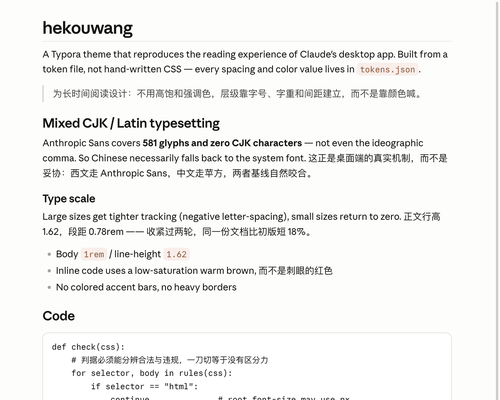
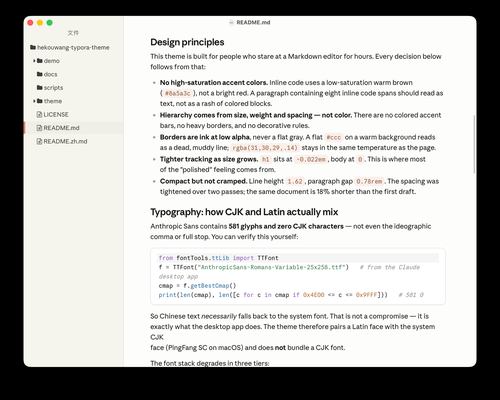
docs: use real Typora screenshots
Replace headless-rendered previews with actual Typora windows, showing the
themed sidebar and file tree alongside the editor pane. Regenerate the gallery
thumbnail from the same capture.

diff --git a/README.md b/README.md
@@ -8,6 +8,12 @@ generates the stylesheet from it.
 
 ![screenshot](docs/screenshot.png)
 
+*Real Typora window — sidebar, file tree and editor pane are all themed.*
+
+![screenshot](docs/screenshot-zh.png)
+
+*Mixed CJK/Latin body text. Latin runs in Anthropic Sans (or Inter), Chinese in the system face.*
+
 *[中文说明](README.zh.md)*
 
 ---

diff --git a/README.zh.md b/README.zh.md
@@ -5,7 +5,13 @@
 CSS 不是手写的，而是由 [`scripts/tokens.json`](scripts/tokens.json) 生成 —— 所有颜色、字号、间距都在那一个文件里，
 改视觉只改它，跑 [`scripts/build.py`](scripts/build.py) 重新生成。
 
+![screenshot](docs/screenshot-zh.png)
+
+*真实 Typora 窗口 —— 侧边栏、文件树、编辑区都在主题覆盖范围内。*
+
 ![screenshot](docs/screenshot.png)
+
+*中英混排：西文走 Anthropic Sans（或 Inter），中文走系统字体。*
 
 *[English](README.md)*
 